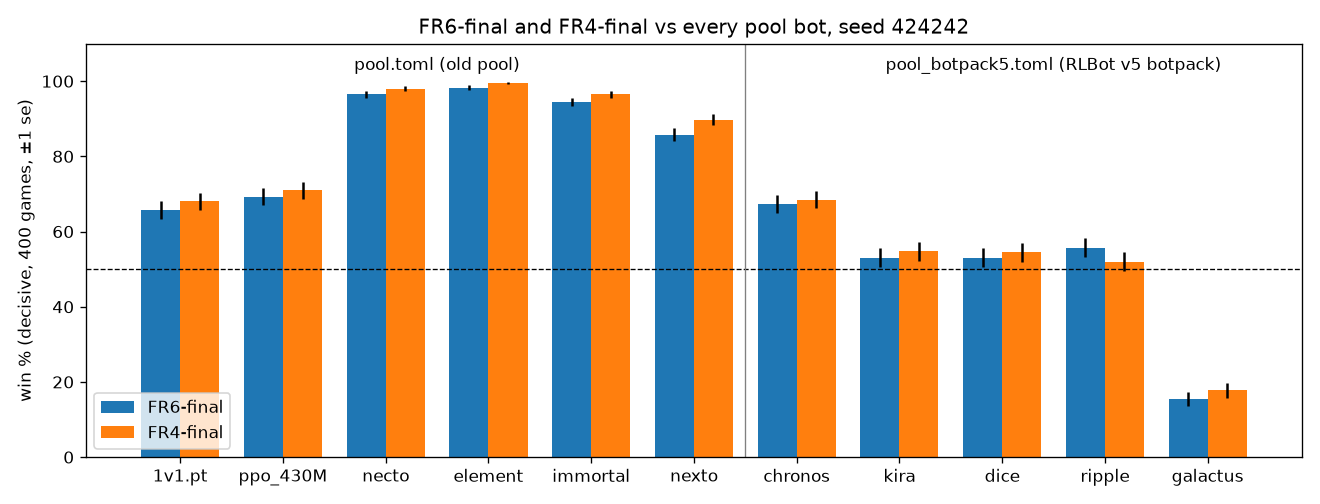
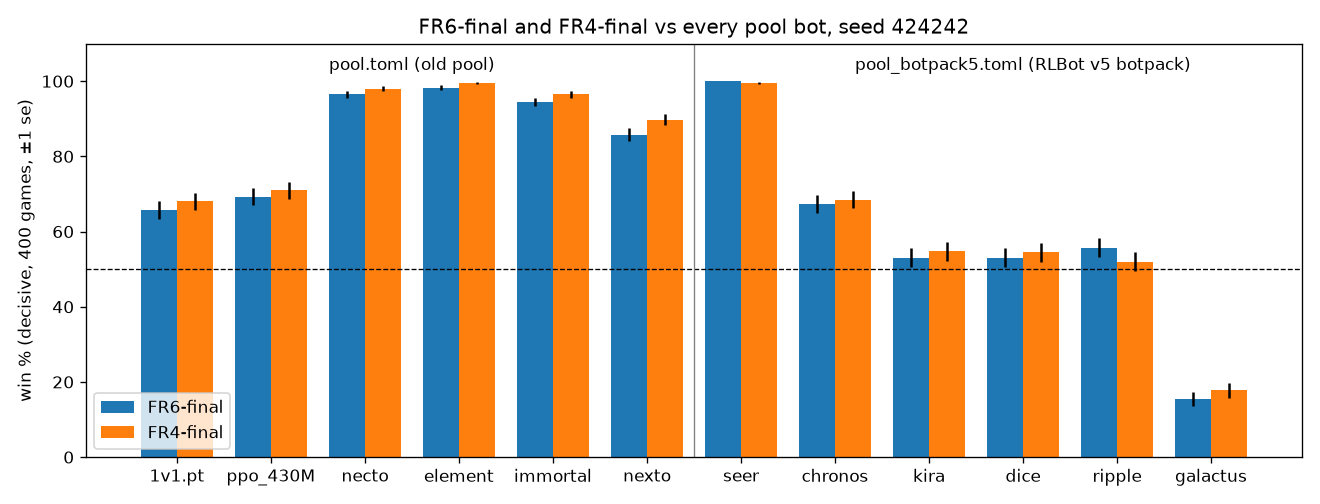
pool_eval: Seer (RLBotPack v4 LSTM) via a v4-packet shim; FR6/FR4 vs Seer

diff --git a/indococo_ppo_bot/tools/pool_eval/poolkit/botpack5.py b/indococo_ppo_bot/tools/pool_eval/poolkit/botpack5.py
@@ -298,3 +298,90 @@ class Galactus(GigaLearn):
                 pv = pv * np.concatenate([INV, INV])
             obs += list(pv[:3] / 5000) + list(pv[3:] / 2300)
         return np.asarray(obs, dtype=np.float32)
+
+
+class Seer(Agent):
+    """Seer (Neville Walo, RLBotPack v4 `RLBotPack/Seer`): 1v1 LSTM (512) policy.
+
+    Runs the bot's own `helper.py` (Seer_Network, invert_*, impute_features,
+    one-hot action encoding; needs numba + scikit-learn) on a v4-packet view of
+    the RocketSim state, mirroring its `bot.py`:
+    - packet fields: location, euler (pitch, yaw, roll; RLBot convention via
+      RLGym's quat_to_euler), velocity, angular velocity, demo timer (seconds
+      demolished, counting up), boost 0-100, has_wheel_contact, has_flip;
+      orange plays inverted (bot index != 0).
+    - pad `timer` as in RLBot v4: seconds since pickup, 0 when active
+      (RocketSim keeps the countdown; converted with 4 s / 10 s respawn).
+    - has_flip: not double_jumped (v4 sets it after a dodge too) and not
+      (jumped and > 1.5 s since last wheel contact), wheel contact sampled at
+      decisions like the bot does.
+    - LSTM state and prev action reset per game; greedy actions; tick skip 8.
+    """
+
+    tick_skip = 8
+
+    def __init__(self, directory: str) -> None:
+        super().__init__()
+        import torch
+
+        self._helper = load_module(os.path.join(directory, "helper.py"), "seer_helper")
+        self.model = self._helper.Seer_Network()
+        self.model.load_state_dict(torch.load(os.path.join(directory, "Seer.pt"), map_location="cpu"))
+        self.model.eval()
+
+    def reset(self, view: AgentView) -> None:
+        import torch
+
+        super().reset(view)
+        self.state = (torch.zeros(1, 1, 512), torch.zeros(1, 1, 512))
+        self.prev_action = np.array([1.0, 2.0, 2.0, 1.0, 0.0, 0.0, 0.0], dtype=np.float32)
+        self.last_contact = {}
+        self.demo = {}
+        self.last_tick = view.tick
+
+    def _player(self, cid, car, tick, inverted) -> np.ndarray:
+        p = car.physics
+        pitch, yaw, roll = p.euler_angles
+        t = tick / 120.0
+        if car.on_ground or cid not in self.last_contact:
+            self.last_contact[cid] = t
+        timeout = (t - self.last_contact[cid]) > self._helper.flip_timeout and car.has_jumped
+        double_jumped = car.has_double_jumped or car.has_flipped
+        has_flip = (not double_jumped) and not timeout
+        a = np.array([*p.position, pitch, yaw, roll, *p.linear_velocity, *p.angular_velocity,
+                      self.demo.get(cid, 0.0), car.boost_amount, float(car.on_ground), float(has_flip)],
+                     dtype=np.float32)
+        return self._helper.invert_player_data(a) if inverted else a
+
+    def decide(self, view: AgentView) -> np.ndarray:
+        import torch
+
+        s, h = view.state, self._helper
+        dt = (view.tick - self.last_tick) / 120.0
+        self.last_tick = view.tick
+        for cid, car in s.cars.items():
+            self.demo[cid] = self.demo.get(cid, 0.0) + dt if car.is_demoed else 0.0
+        inverted = view.car.team_num == 1
+        opp = next(c for c in s.cars if c != view.car_id)
+        me_a = self._player(view.car_id, view.car, view.tick, inverted)
+        op_a = self._player(opp, s.cars[opp], view.tick, inverted)
+        cd = np.asarray(s.boost_pad_timers, dtype=np.float64)
+        from rlgym.rocket_league.common_values import BOOST_LOCATIONS
+
+        respawn = np.where(np.asarray(BOOST_LOCATIONS)[:, 2] > 72, 10.0, 4.0)
+        pads = np.where(cd > 0, respawn - cd, 0.0).astype(np.float32)
+        if inverted:
+            pads = h.invert_boost_data(pads)
+        b = s.ball
+        ball = np.array([*b.position, *b.linear_velocity, *b.angular_velocity], dtype=np.float32)
+        if inverted:
+            ball = h.invert_ball_data(ball)
+        enc = h.get_action_encoding(self.prev_action.reshape(1, -1))
+        x = h.impute_features(me_a, op_a, pads, ball, enc.reshape(-1)).reshape(1, -1)
+        with torch.no_grad():
+            actions, _, _, self.state = self.model(torch.tensor(x, dtype=torch.float32), self.state,
+                                                   torch.zeros(1), True)
+        a = actions.numpy()[0]
+        self.prev_action = a.astype(np.float32)
+        sy = a[1] * 0.5 - 1.0
+        return np.array([a[0] - 1.0, sy, a[2] * 0.5 - 1.0, sy, a[3] - 1.0, a[4], a[5], a[6]], dtype=np.float64)

diff --git a/docs/experiments/make_figures_botpack5.py b/docs/experiments/make_figures_botpack5.py
@@ -19,7 +19,7 @@ for f in ("botpack5_ref_pool400.jsonl", "botpack5_bench.jsonl"):
         r = json.loads(line)
         rows.setdefault((r["candidate"], r["opponent"]), r)
 opps = ["1v1.pt", "ppo_430M", "necto", "element", "immortal", "nexto",
-        "chronos", "kira", "dice", "ripple", "galactus"]
+        "seer", "chronos", "kira", "dice", "ripple", "galactus"]
 x = np.arange(len(opps))
 fig, ax = plt.subplots(figsize=(11, 4.2))
 for k, (cand, col) in enumerate((("FR6final", "tab:blue"), ("FR4final", "tab:orange"))):
@@ -29,7 +29,7 @@ for k, (cand, col) in enumerate((("FR6final", "tab:blue"), ("FR4final", "tab:ora
 ax.axhline(50, color="k", lw=0.8, ls="--")
 ax.axvline(5.5, color="gray", lw=0.8)
 ax.text(2.5, 103, "pool.toml (old pool)", ha="center")
-ax.text(8.5, 103, "pool_botpack5.toml (RLBot v5 botpack)", ha="center")
+ax.text(9, 103, "pool_botpack5.toml (RLBot v5 botpack)", ha="center")
 ax.set_xticks(x, opps)
 ax.set_ylim(0, 110)
 ax.set_ylabel("win % (decisive, 400 games, ±1 se)")

diff --git a/indococo_ppo_bot/tools/pool_eval/poolkit/registry.py b/indococo_ppo_bot/tools/pool_eval/poolkit/registry.py
@@ -18,11 +18,11 @@ def make_agent(kind: str, path: str = "", **options) -> Agent:
 
         return {"nexto": bots.Nexto, "necto": bots.Necto, "element": bots.Element,
                 "immortal": bots.Immortal}[kind](path)
-    if kind in ("ripple", "gigalearn", "galactus"):
+    if kind in ("ripple", "gigalearn", "galactus", "seer"):
         from . import botpack5
 
         return {"ripple": botpack5.Ripple, "gigalearn": botpack5.GigaLearn,
-                "galactus": botpack5.Galactus}[kind](path, **options)
+                "galactus": botpack5.Galactus, "seer": botpack5.Seer}[kind](path, **options)
     if kind == "zero":
         return ZeroAgent()
     if kind == "random":

diff --git a/indococo_ppo_bot/tools/pool_eval/README.md b/indococo_ppo_bot/tools/pool_eval/README.md
@@ -51,8 +51,8 @@ decisive win rate over the opponents.
 | Immortal | github.com/RLBot/RLBotPack `RLBotPack/Immortal` | MIT (pack) | TorchScript `jit.pt` | ExpandAdvancedObs / 90-row table | 6 | yes |
 | zero / random | `poolkit/agent.py` | | | | 8 | sanity baselines |
 
-Not in `pool.toml`: Seer (RLBotPack, LSTM fed raw RLBot packet fields such as
-euler angles and per-wheel contact; would need its own packet shim).
+Not in `pool.toml`: Seer (RLBotPack, LSTM fed raw RLBot packet fields); it is
+in `pool_botpack5.toml` with a packet shim, see below.
 `fetch_bots.sh` pins the commits; the weights stay in `~/eval_bots`, not in
 this repo, because the Necto family, Element and the GigaLearn bots state no
 license and Ripple is CC BY-NC-SA 4.0.
@@ -70,6 +70,7 @@ Adapters are in `poolkit/botpack5.py`.
 | Kira | github.com/stepkrav06/Kira (ba73b05) | none stated | GigaLearn TorchScript `SHARED_HEAD.lt` + `POLICY.lt` | GigaLearn `AdvancedObs` (109) / `DefaultAction` 90 + mask | 8, action delay 7 | ported from C++ |
 | Dice | github.com/V1XT1/Dice-BotPackV5 (8819829) | none stated | same, LeakyReLU | `AdvancedObsPadded(2)` (167) | 8 / 7 | ported |
 | Chronos | github.com/KingJake3113/Chronos (4f8fdd2) | none stated | same, ReLU | `AdvancedObsPadded(3)` (225) | 8 / 7 | ported |
+| Seer | github.com/RLBot/RLBotPack `RLBotPack/Seer` (0033a98) | MIT (pack) | LSTM state dict `Seer.pt`, its `helper.py` (needs numba, scikit-learn) | v4 packet fields (euler, demo timer, pad timers since pickup, has_flip rule) + imputed distances + one-hot previous action / 7-way multi-discrete | 8 | v4-packet shim; LSTM state per game |
 | GalactusV2 | github.com/SoldierDoge/GalactusV2 (217324c) | none stated | same, LeakyReLU | `GalactusOBS(3)` (258): padded obs + nearest big pad + 5 ball-prediction samples | 8 / 7 | ported; predictions from a ball-only RocketSim arena |
 
 GigaLearn notes: the `.lt` files are TorchScript modules without `forward`;
@@ -86,7 +87,7 @@ helpers and its own action parser), Wisp v2 / Willo 24k (Python GigaLearn
 ports with their own obs using RLBot ball prediction and ETA features; Willo
 is 3v3-focused), Ducky (RocketForge, `agent_setup.json` pipeline), Swishy
 (hoops only), ChadGPT (3v3 hivemind), TensorBot (v4/v5, team-specific
-models), Seer (see above), and the SB3 bots of the v4 pack (Omus, Monkey,
+models), and the SB3 bots of the v4 pack (Omus, Monkey,
 Vector, Engine).
 
 Adapter checks for the new bots: each beats `zero` and `random` 6-0, and
@@ -110,3 +111,5 @@ best. `tools/eval_loop.sh` runs it every `EVERY` steps during training:
 ```bash
 TRAIN_BIN=indococo-train PY=python tools/eval_loop.sh <checkpoints> logs/evals.jsonl bots/best
 ```
+
+Seer checks: beats zero and random 6-0 but loses to all old pool bots (Nexto 2-38); see EXPERIMENTS.md.

diff --git a/docs/experiments/REPORT.md b/docs/experiments/REPORT.md
@@ -83,7 +83,7 @@ All rounds build on the E8B2 reward set (`indococo_ppo_bot/config/e8b2_1v1.toml`
 
 `tools/pool_eval/` plays headless RocketSim matches through RLGym v2. Each game is a 1v1 Octane game from a kickoff, played to the first goal. It counts as a timeout after 30 s with no touch or after 300 s.
 
-- **Opponent pool:** `1v1.pt` (our Python E8B2 policy), `ppo_430M` (R0 checkpoint), **Nexto**, **Necto** (VirxEC/NectoFamily), **Element** (VirxEC/Elementv5) and **Immortal** (RLBotPack, tick skip 6). Public bots run their own obs builders, models and kickoff code through an RLGym v1 compatibility view. Nexto keeps its stochastic sampling. Seer, Ripple and Tecko are not in the pool, because Seer has no packet shim and the other two have no public weights. (Update 2026-11-01: the RLBot v5 botpack now ships Ripple v1.1 and the GigaLearn bots Kira, Dice, Chronos and GalactusV2; they form a second pool, `pool_botpack5.toml`. Results in `indococo_ppo_bot/EXPERIMENTS.md`, "Benchmark: RLBot v5 botpack ML bots", and `figures/botpack5_bench.png`. GalactusV2 beats FR6-final 338-62.)
+- **Opponent pool:** `1v1.pt` (our Python E8B2 policy), `ppo_430M` (R0 checkpoint), **Nexto**, **Necto** (VirxEC/NectoFamily), **Element** (VirxEC/Elementv5) and **Immortal** (RLBotPack, tick skip 6). Public bots run their own obs builders, models and kickoff code through an RLGym v1 compatibility view. Nexto keeps its stochastic sampling. Seer, Ripple and Tecko are not in the pool, because Seer has no packet shim and the other two have no public weights. (Update 2026-11-01: the RLBot v5 botpack now ships Ripple v1.1 and the GigaLearn bots Kira, Dice, Chronos and GalactusV2; they form a second pool, `pool_botpack5.toml`. Results in `indococo_ppo_bot/EXPERIMENTS.md`, "Benchmark: RLBot v5 botpack ML bots", and `figures/botpack5_bench.png`. GalactusV2 beats FR6-final 338-62. Seer was added later with a packet shim; FR6-final beats it 400-0.)
 - **Pool score:** the mean decisive win rate over the six opponents.
 - **H2H:** each seed is played twice, with the candidate blue and then orange. Our policy plays greedily (argmax). The standard error is √(p(1−p)/n): about ±2.5 pts at 400 games, ±1.6 at 1000 and ±5 at 100. R0 used seed 10000; R1 onward used seed 424242 and `nice 19`.
 - **Air-time clamp:** on by default, because that is what the deployed bot sees. Master's `h2h_1v1.py` ran without it. Unclamped, 430M scored 51.0% against `1v1.pt` with both sides unclamped, and 52.5% with only 430M unclamped, against 57.2% clamped (400 games each).

diff --git a/indococo_ppo_bot/EXPERIMENTS.md b/indococo_ppo_bot/EXPERIMENTS.md
@@ -643,7 +643,7 @@ Nov 1 2026) ships several stronger ML bots with weights.
 | Swishy | bccessnadev/RLBot-Swishy | GigaLearn | hoops | skipped: hoops only |
 | ChadGPT | thecosmicskye/ChadGPT | bf16 sharded relational model | 3v3 hivemind | skipped: 3v3 only |
 | TensorBot (v4, v5) | HappyBavarian07/TensorBot-v5 | torch `.pt`, blue/orange models | ? | skipped: separate per-team models, undocumented obs |
-| Seer | RLBot/RLBotPack | LSTM `.pt` | yes | skipped: raw packet fields, needs packet shim |
+| Seer | RLBot/RLBotPack (v4) `RLBotPack/Seer` | LSTM state dict `Seer.pt` | yes | **added** (packet shim, see below) |
 | Omus, Monkey, Vector, Engine | RLBot/RLBotPack | SB3 zip | yes | skipped: old SB3 bots, weaker than Necto |
 
 ### Setup
@@ -666,7 +666,23 @@ Nexto, Kira 29-11, Dice 34-6, Chronos 27-13, Galactus 17-3).
 | **GalactusV2** | **15.5 ± 1.8 (62-338)** | **17.8 ± 1.9 (71-329)** |
 | mean (5 bots) | 48.9 | 49.5 |
 
+| Seer | 100.0 (400-0) | 99.5 ± 0.4 (398-2) |
+
 A repeat FR4-final vs Galactus run gave 70-330 (17.5%). No timeouts.
+
+Seer (added the same day): Neville Walo's 1v1 LSTM bot from the v4 pack
+(commit 0033a98, pack license MIT; the RLRL source repo named in its bot.cfg
+is not public). The adapter runs its own `helper.py` (network, feature
+imputation, one-hot previous action) on a v4-packet view: RLBot euler angles
+(RLGym `quat_to_euler`, checked: facing +y gives yaw pi/2, right side down
+gives positive roll), demo timer counting up, v4 pad timers (seconds since
+pickup), its own has_flip rule, LSTM state reset per game, greedy actions.
+Sanity: beats zero and random 6-0, but loses to every old pool bot (Nexto
+2-38, Necto 1-19, Immortal 3-17, Element 4-15-1 over 20-40 games, symmetric
+by side). Feeding pad cooldowns instead of v4 pad timers changed nothing
+(6-34 vs Element). Seer is a 2022 bot, older than Necto, so this is probably
+its real strength, but a shim mismatch can't be fully ruled out. Either way
+it is too weak to be a useful benchmark (FR6-final 400-0).
 Figure: `docs/experiments/figures/botpack5_bench.png`
 (`make_figures_botpack5.py`; data `docs/experiments/data/botpack5_bench.jsonl`).
 

diff --git a/indococo_ppo_bot/README.md b/indococo_ppo_bot/README.md
@@ -60,7 +60,7 @@ indococo_ppo_bot/
   tools/eval_loop.sh      pool evals + keep-best during training
   tools/bc/bc_pretrain.py FR5/FR6 behavior cloning: CE to expert labels + KL to the frozen (or --teacher) actor on normal play
   tools/pool_eval/        headless evals vs 1v1.pt, PPO checkpoints, Nexto, Necto, Element, Immortal;
-                          pool_botpack5.toml: RLBot v5 botpack Ripple, Kira, Dice, Chronos, Galactus
+                          pool_botpack5.toml: RLBot v5 botpack Ripple, Kira, Dice, Chronos, Galactus + v4 Seer
   config/E8b_shell_contact_strong.json  E8B2 experiment config (input to parity.py)
 ```
 
@@ -321,9 +321,9 @@ README for the protocol and per-bot details.
 
 A second pool, `tools/pool_eval/pool_botpack5.toml`, holds the ML bots of the
 RLBot v5 botpack (Ripple v1.1, and the GigaLearn bots Kira, Dice, Chronos and
-GalactusV2), run through `poolkit/botpack5.py`. It is kept out of `pool.toml`
+GalactusV2) plus Seer from the v4 pack, run through `poolkit/botpack5.py`. It is kept out of `pool.toml`
 so the historical pool score stays comparable; pass `--pool
-tools/pool_eval/pool_botpack5.toml` to use it. Ripple needs `onnxruntime`.
+tools/pool_eval/pool_botpack5.toml` to use it. Ripple needs `onnxruntime`; Seer needs `numba` and `scikit-learn` (with numpy pinned to 1.26.4 for rlgym).
 
 ```bash
 python tools/pool_eval/pool_eval.py --candidate checkpoints/<n> --games 400 --procs 32
